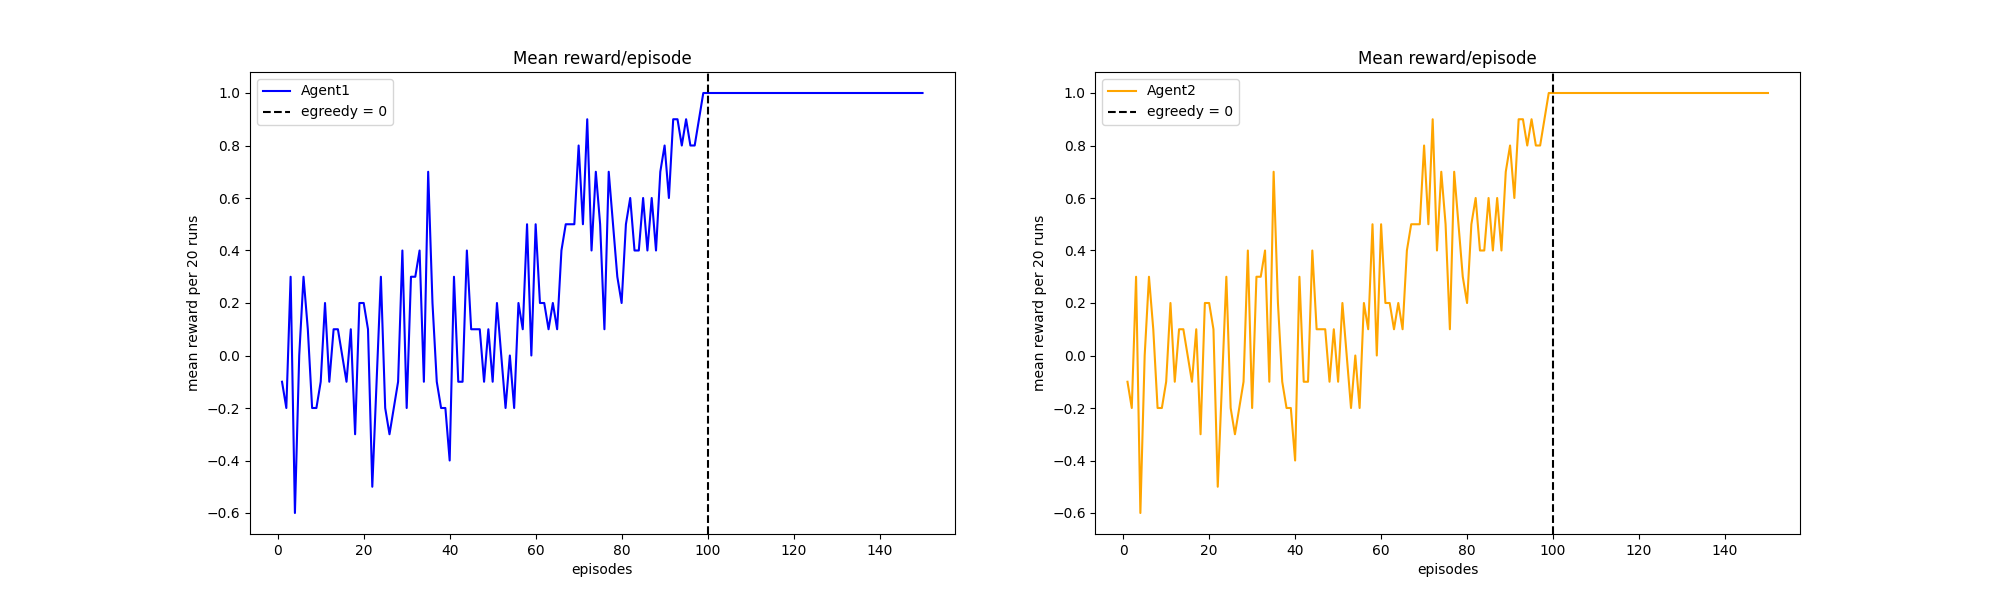
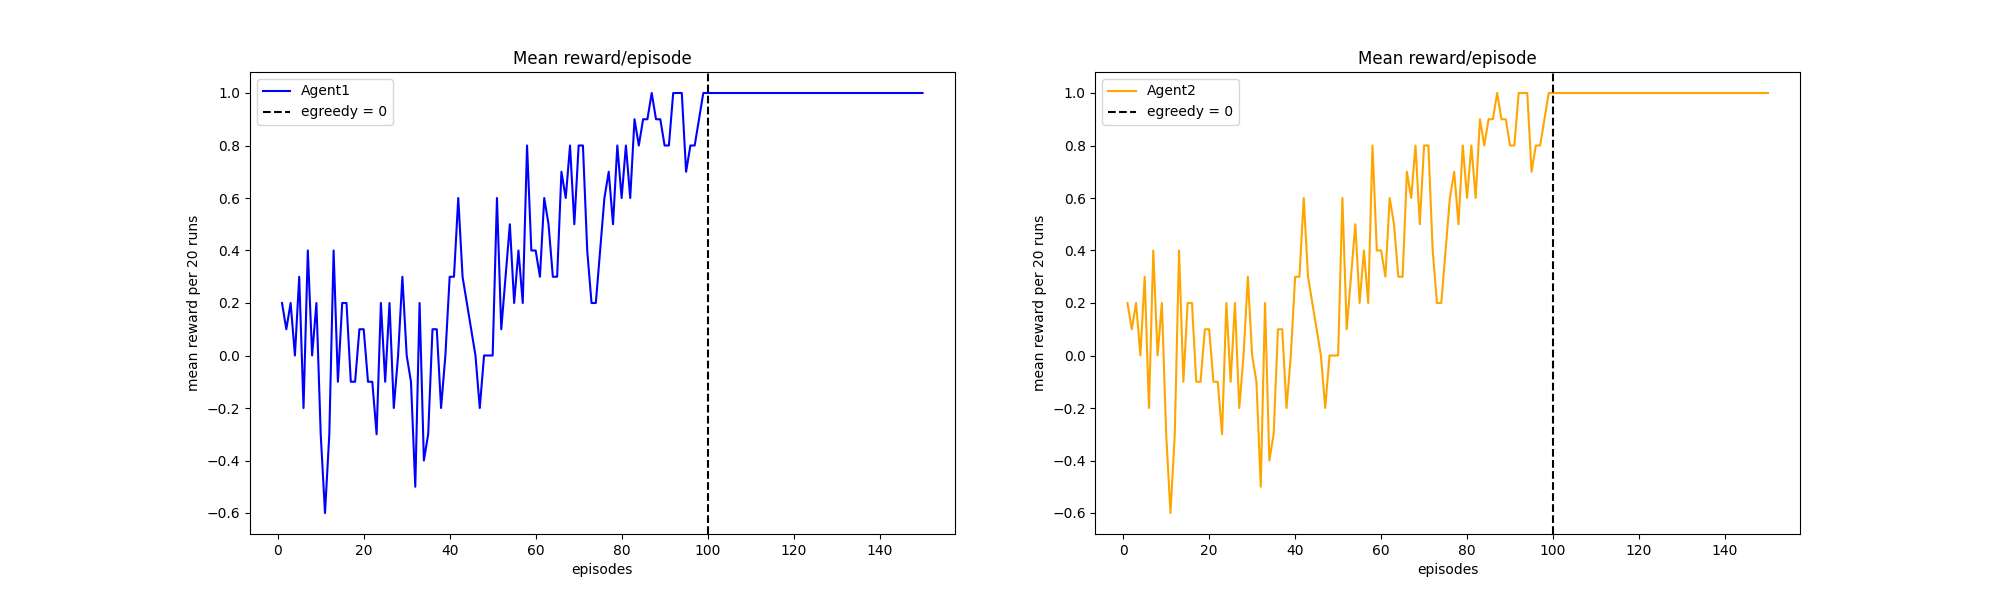
learning_rate change + q_table_update on every step

Changed region(s): [[0.558, 0.15, 0.775, 0.84], [0.124, 0.15, 0.372, 0.81]]

diff --git a/q-learning/q_learning_2.py b/q-learning/q_learning_2.py
@@ -1,0 +1,174 @@
+import numpy as np
+import pandas as pd
+from matplotlib import pyplot as plt
+
+episodes = 150
+runs = 20
+actions = [0, 1] 
+learning_rate = 0.5
+gamma = 0.9
+epsilon = 1
+
+
+#reward_grid
+reward_grid=pd.DataFrame({
+                    0:[(1, 1),(-1, -1)], 
+                    1:[(-1, -1),(1, 1)]
+                }) 
+reward_grid.index = [0,1]
+print(reward_grid)
+
+
+class Agent():
+    def __init__(self, name, e_greedy):
+        self.name = name
+        self.e_greedy = e_greedy
+        self.episode_reward = 0
+        self.cumulative_reward = 0
+        self.avg_reward_episode = []
+        self.total_reward_evolution = []
+        self.q_action_per_episode = {0:[],1:[]}
+        self.state = 0
+        self.q_table = np.zeros([runs, len(actions)])
+
+    def next_action(self, state):
+        #exploration
+        action = None
+        if np.random.random() < self.e_greedy:
+            action = np.random.choice(actions)
+        else:
+            action = np.argmax(self.q_table[state])
+        return action
+
+    def updateQ(self, state, action, reward):
+        next_state = state + 1
+        if next_state >= runs - 1:
+            next_state = runs - 1
+        
+        old_value = self.q_table[state, action]
+        next_max = np.max(self.q_table[next_state])
+        
+        new_value = (1 - learning_rate) * old_value + learning_rate * (reward + gamma * next_max)
+        self.q_table[state, action] = new_value
+
+
+        
+        # old_value = self.q_table[self.state, action]
+        # next_max = np.max(self.q_table[self.state])
+        
+        # new_value = (1 - learning_rate) * old_value + learning_rate * (reward + gamma * next_max)
+        # self.q_table[self.state, action] = new_value
+
+    def total_reward(self, r):
+        self.episode_reward += r
+        self.cumulative_reward += r
+        self.total_reward_evolution.append(self.cumulative_reward)
+
+    def update_stats(self):
+        self.q_action_per_episode[0].append(self.q_table[0][0])
+        self.q_action_per_episode[1].append(self.q_table[0][1])
+
+    def reset(self):
+        ''' resets rewards for next episode and epsilon decrement '''
+        self.episode_reward = 0
+        self.e_greedy -= 0.01 
+        # make sure we do not use negative values
+        if self.e_greedy < 0.0: 
+            self.e_greedy = 0.0
+
+if __name__ == "__main__":
+
+    player1 = Agent('Agent1', epsilon)
+    player2 = Agent('Agent2', epsilon)
+    cumulative_average_0 = []
+    cumulative_average_1 = []
+    for episode in range(0, episodes):
+        player1.reset()
+        player2.reset()
+        for run in range(0, runs):
+            action1 = player1.next_action(run)
+            action2 = player2.next_action(run)
+            [r1, r2] = reward_grid[action1][action2]
+            #stop update q-table after 100th episode, testing phase
+            if episode < 100:
+                player1.updateQ(run, action1, r1)
+                player2.updateQ(run, action2, r2)
+
+            player1.total_reward(r1)
+            player2.total_reward(r2)
+
+        # print("col player chose {}, row player chose {} -> reward {}".format(action1, action2, reward_grid[action1][action2]))
+        cumulative_average_0.append(np.cumsum(player1.q_table[:,0]) / (np.arange(runs) + 1))
+        cumulative_average_1.append(np.cumsum(player1.q_table[:,1]) / (np.arange(runs) + 1))
+
+        player1.avg_reward_episode.append(player1.episode_reward / runs)
+        player2.avg_reward_episode.append(player2.episode_reward / runs)
+
+        player1.update_stats()
+        player2.update_stats()
+
+        print("Episode:{} -> R1 {}, R2 {}".format(episode, player1.episode_reward, player2.episode_reward))
+
+    #avg reward per episode
+    # fig = plt.figure()
+    # ax1 = fig.add_subplot(211)
+    # ax1.plot(range(1,episodes+1), player1.avg_reward_episode, label=player1.name, color='blue')
+    # plt.axvline(x=100, label='egreedy = 0', color='black', linestyle="--")
+    # plt.title("Mean reward/episode") 
+    # plt.ylabel('mean reward per 20 runs')
+    # plt.legend(loc="upper left")
+    # ax2 = fig.add_subplot(212)
+    # ax2.plot(range(1,episodes+1), player2.avg_reward_episode, label=player2.name, color='orange')
+    # plt.axvline(x=100, label='egreedy = 0', color='black', linestyle="--")
+    # plt.xlabel('episodes')  
+    # plt.ylabel('mean reward per 20 runs') 
+    # plt.legend(loc="upper left")
+    # plt.savefig("q-learning/avg_reward_episode.png", format="png")
+
+
+    # total reward evolution
+    # fig = plt.figure()
+    # ax1 = fig.add_subplot(211)
+    # ax1.plot(range(1,(episodes * runs) + 1), player1.total_reward_evolution, label=player1.name, color='blue')
+    # plt.axvline(x=2000, label='egreedy = 0', color='black', linestyle="--")
+    # plt.title("Total reward as function of time") 
+    # plt.ylabel('total reward')
+    # plt.legend(loc="upper left")
+    # ax2 = fig.add_subplot(212)
+    # ax2.plot(range(1,(episodes * runs) + 1), player2.total_reward_evolution, label=player2.name, color='orange')
+    # plt.axvline(x=2000, label='egreedy = 0', color='black', linestyle="--")
+    # plt.xlabel('time(episodes x runs)')  
+    # plt.ylabel('total reward') 
+    # plt.legend(loc="upper left")
+    # plt.savefig("q-learning/total_reward_time.png", format="png")
+
+    # action per episode
+    fig = plt.figure()
+    ax1 = fig.add_subplot(211)
+    ax1.plot(range(1,episodes + 1), player1.q_action_per_episode[0], label='p1, a0', color='blue')
+    ax1.plot(range(1,episodes + 1), player1.q_action_per_episode[1], label='p1, a1', color='orange')
+    plt.axvline(x=100, label='egreedy = 0', color='black', linestyle="--")
+    plt.title("Q-action values per episode") 
+    plt.ylabel('Q-value')
+    plt.legend(loc="upper left")
+    ax2 = fig.add_subplot(212)
+    ax2.plot(range(1,episodes + 1), player2.q_action_per_episode[0], label='p2, a0', color='blue')
+    ax2.plot(range(1,episodes + 1), player2.q_action_per_episode[1], label='p2, a1', color='orange')
+    plt.axvline(x=100, label='egreedy = 0', color='black', linestyle="--")
+    plt.xlabel('episodes')  
+    plt.ylabel('Q-value') 
+    plt.legend(loc="upper left")
+    plt.savefig("q-learning/q_action_values_per_episode.png", format="png")
+
+
+    #plt.plot(cumulative_average_0)
+    # plt.xscale('log') 
+    # plt.plot(cumulative_average_1)
+    # print(player1.q_table)
+    # print(player1.q_table[0][0])
+    # plt.plot(action_0_per_epi)
+    # plt.plot(action_1_per_epi)
+    # plt.show()
+
+
+

diff --git a/q-learning/q_learning.py b/q-learning/q_learning.py
@@ -5,8 +5,8 @@ from matplotlib import pyplot as plt
 episodes = 150
 runs = 20
 actions = [0, 1] 
-learning_rate = 0.5
-gamma = 0.9
+learning_rate = 0.1
+discount_factor = 0.9
 epsilon = 1
 
 
@@ -28,8 +28,9 @@ class Agent():
         self.avg_reward_episode = []
         self.total_reward_evolution = []
         self.q_action_per_episode = {}
-        self.current_state = (0,0)
-        self.q_table = {(0,0):[0, 0]}
+        self.initial_state = (0,0)
+        self.current_state = self.initial_state
+        self.q_table = {self.initial_state:[0, 0]}
 
 
     def next_action(self, state):
@@ -41,16 +42,16 @@ class Agent():
             action = np.argmax(self.q_table[self.current_state])
         return action
 
-    def updateQ(self, state, action, reward):
+    def updateQ(self, time_step, action, reward):
         
+        # New state discovered
         if (action, reward) not in self.q_table:
             self.q_table[(action, reward)] = [0, 0]
 
         old_value = self.q_table[self.current_state][action]
         next_max = np.max(self.q_table[self.current_state])
-        next_max_index = np.argmax(self.q_table[self.current_state])
 
-        new_value = (1 - learning_rate) * old_value + learning_rate * (reward + gamma * next_max)
+        new_value = (1 - learning_rate) * old_value + learning_rate * (reward + discount_factor * next_max)
         self.q_table[self.current_state][action] = new_value
         self.current_state = (action,reward)
 
@@ -62,7 +63,7 @@ class Agent():
 
     def update_stats(self):
         for key, value in self.q_table.items():
-            if key == (0,0):
+            if key == self.initial_state:
                 continue
             if key not in self.q_action_per_episode:
                 self.q_action_per_episode[key] = {0:[], 1:[]}
@@ -73,11 +74,14 @@ class Agent():
 
     def reset(self):
         ''' resets rewards for next episode and epsilon decrement '''
+        self.current_state = self.initial_state
         self.episode_reward = 0
         self.e_greedy -= 0.01 
         # make sure we do not use negative values
         if self.e_greedy < 0.0: 
             self.e_greedy = 0.0
+
+        print("epsilon agent {} is:{}".format(self.name, self.e_greedy))
 
 if __name__ == "__main__":
 
@@ -93,9 +97,9 @@ if __name__ == "__main__":
             action2 = player2.next_action(run)
             [r1, r2] = reward_grid[action1][action2]
             #stop update q-table after 100th episode, testing phase
-            if episode < 100:
-                player1.updateQ(run, action1, r1)
-                player2.updateQ(run, action2, r2)
+            # if episode < 100:
+            player1.updateQ(run, action1, r1)
+            player2.updateQ(run, action2, r2)
 
             player1.total_reward(r1)
             player2.total_reward(r2)
@@ -161,8 +165,8 @@ if __name__ == "__main__":
         if key == (0,0): 
             continue
         
-        ax1.plot(player1.q_action_per_episode[key][0], label="S:{}, A:A".format(key))
-        ax1.plot(player1.q_action_per_episode[key][1], label="S:{}, A:D".format(key))
+        ax1.plot(player1.q_action_per_episode[key][0], label="st:{}, ac:A".format(key))
+        ax1.plot(player1.q_action_per_episode[key][1], label="st:{}, ac:D".format(key))
 
     ax1.axvline(x=100, color='black', linestyle="--")
     ax1.title.set_text("Agent 0 Q(s,a) per episode") 
@@ -174,8 +178,8 @@ if __name__ == "__main__":
         if key == (0,0): 
             continue
     
-        ax2.plot(player2.q_action_per_episode[key][0], label="S:{}, A:A".format(key))
-        ax2.plot(player2.q_action_per_episode[key][1], label="S:{}, A:D".format(key))
+        ax2.plot(player2.q_action_per_episode[key][0], label="st:{}, ac:A".format(key))
+        ax2.plot(player2.q_action_per_episode[key][1], label="st:{}, ac:D".format(key))
 
     ax2.axvline(x=100, color='black', linestyle="--")
     ax2.title.set_text("Agent 1 Q(s,a) per episode") 
